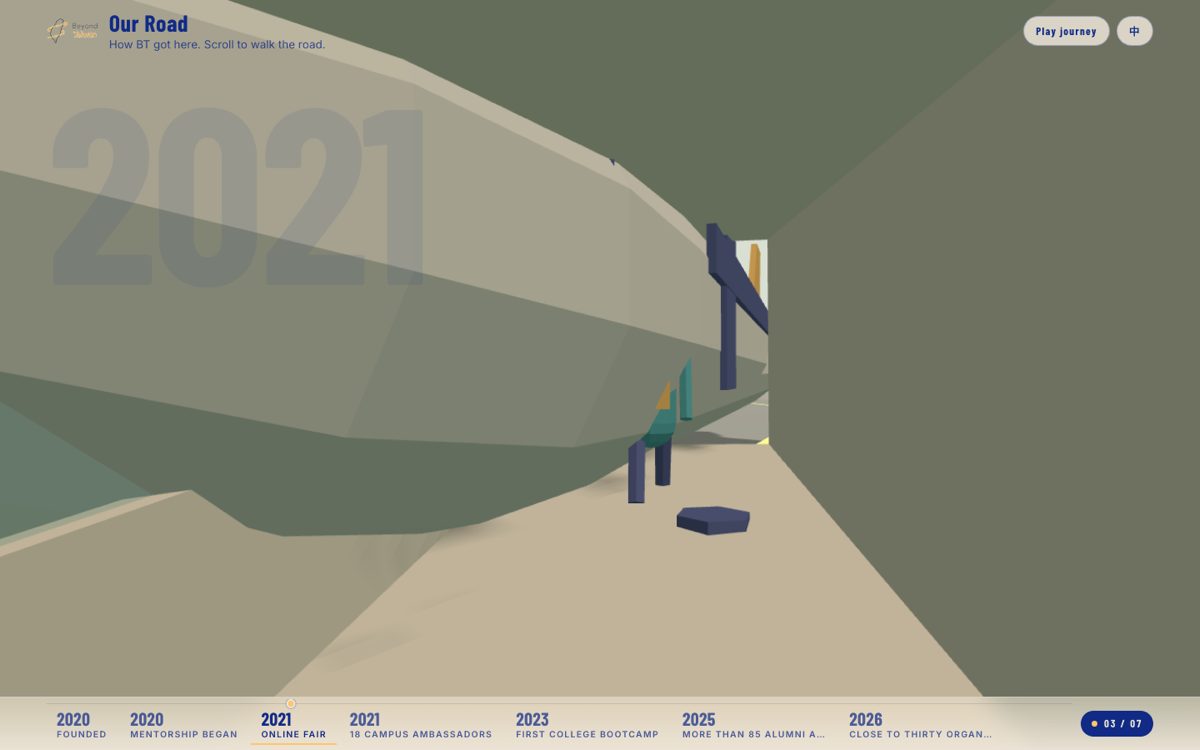
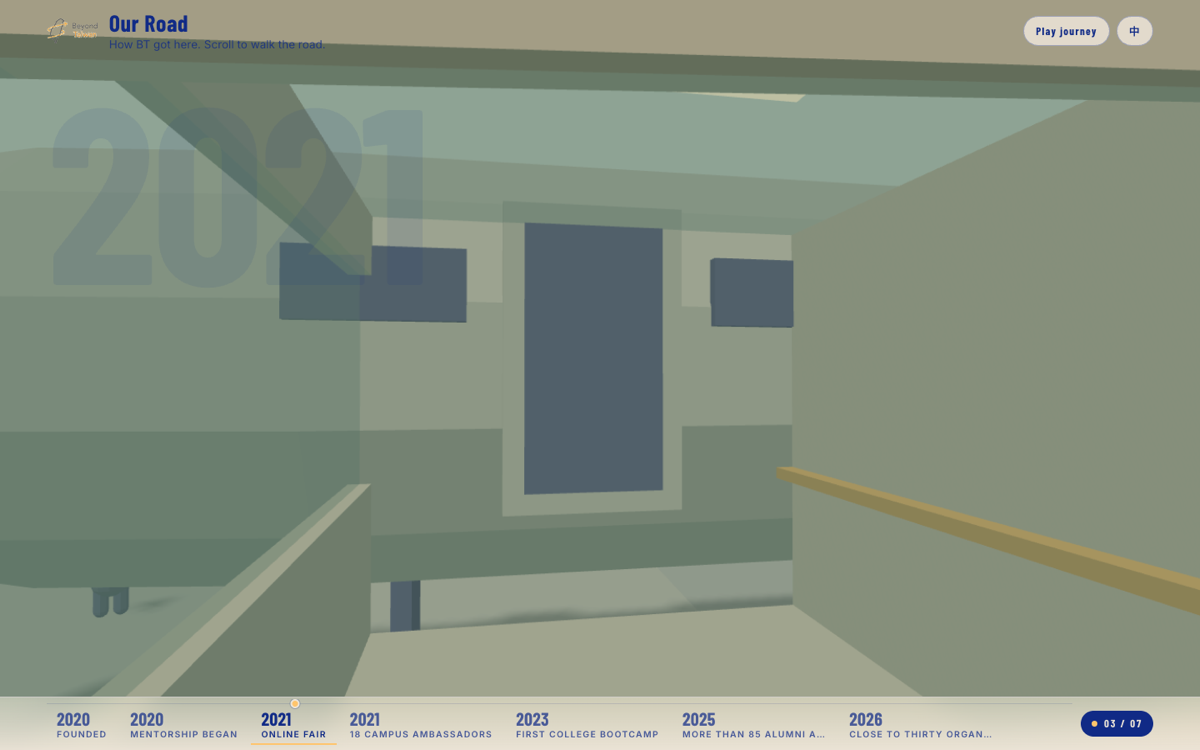
docs: 歷史之路批 5 第二輪。README 補第二輪四件、計畫文件打勾、重拍 page-24、25、26、28、32

diff --git a/README.md b/README.md
@@ -3565,6 +3565,14 @@ Paul 看完批 4 第三輪在線上的樣子，否決了 2.5D 的畫法：「飛
 - 守門：`./check.sh` 多守 Three（importmap 只准 cdnjs、雜湊對、只有 `scene.js` 與 `plane.js` import three、`history/` 沒有模型或圖檔、JS 不含 Three 小於 250 KB）；main.js 的判斷改成 `A.pickMode(...)` 與動態 import。`node check-motion.mjs`（23 頁）、`node scripts/check-mobile.mjs`（20 頁）、`node --test test/*.test.mjs`（672 條）都綠。
 - `test/history-page.test.mjs` 批 5 那九條：飛機工廠的零件與起落架、滑行道的彎與樣條、飛機的姿態、鏡頭樣條、旅客、站的錨點、登機門號碼與看板、退路與畫質、資料與場景分開（沒有站的文字、沒有色碼、importmap 帶 integrity、沒有模型檔）。
 
+### 同一天第二輪（主 session 看過之後要修的四件）
+
+- 空橋改成兩段直的（A 段沿 z、B 段沿 x 接到機身），鏡頭沿中線走、門前三公尺停住看門，玻璃牆在門口留洞；登機門是深藍門框加號碼牌；空橋是有燈條的隧道、一邊是窗看得到機身、B 段玻璃頂。測試每百分之一取樣鏡頭不穿任何一面牆（`airport.js` 的 `WALLS` 與 `VOLUMES`）。
+- 航廈：奶油色地磚、格狀天花板加燈條、淡沙色柱子、深藍帶子、橘色指標、三色商店門面、盆栽、青橘座位、坐著與拖行李箱的人；人改成圓潤的膠囊樣子，五種品牌色。
+- 看板：貼圖 2048 寬、列高至少 48 像素（`boardLayout`），現在這一站橘底，換站整塊翻一下。
+- 雲：奶油白往白推、自發光、不接影；沿爬升的路放在飛機旁邊與底下；霧變薄，爬升初期機場看得到。
+- 重拍 page-24、25、26、28、32。
+
 ### 要 Paul 看一眼的幾個判斷
 
 - Three 的 SRI 走 importmap 的 `integrity` 欄位（Chrome 127、Safari 18.4、Firefox 138 起認得）。更舊的瀏覽器照樣載得到、只是不驗雜湊；不用 `modulepreload` 是因為 `check.sh` 把它當成登入後頁面的守門在數。
